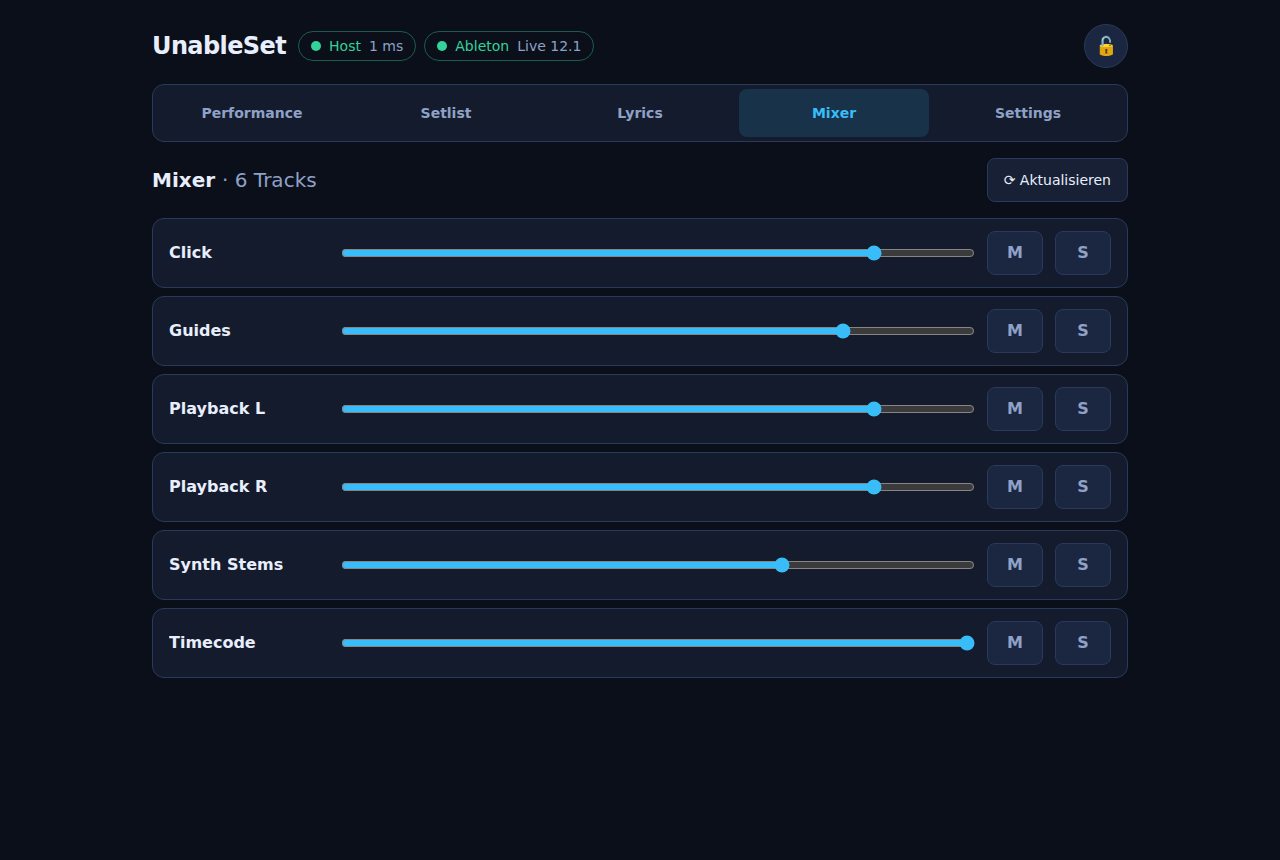
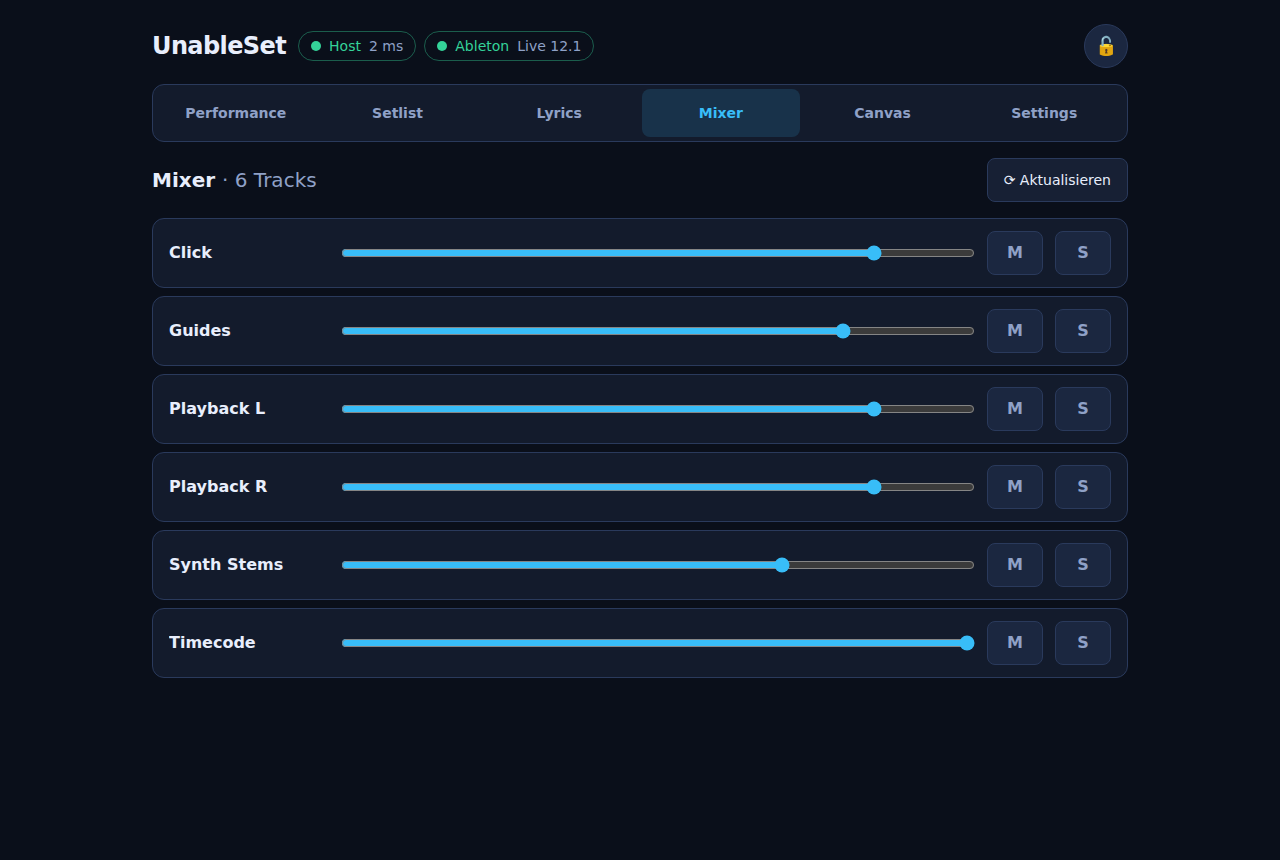
test(e2e): Lyrics-Sync- und Canvas-Flow + Canvas-Screenshot
- E2E: getimte Lyrics aus MIDI-Clips (SYNC), Canvas-Command-Button
- Screenshot-Script erzeugt zusaetzlich canvas.png

diff --git a/e2e/stage-flows.spec.ts b/e2e/stage-flows.spec.ts
@@ -91,6 +91,29 @@ test('Mixer: Tracks sichtbar, Mute togglet', async ({ page }) => {
   await expect(muteButton).toHaveClass(/stage-danger/, { timeout: 5000 });
 });
 
+test('Lyrics-Sync: getimte Zeilen aus MIDI-Clips im Teleprompter', async ({ page }) => {
+  await page.goto('/');
+  await page.getByTestId('btn-stop').click();
+  await page.getByTestId('tab-setlist').click();
+  await page.getByTestId('entry-queue-0').click(); // Neonlicht (hat Lyrics-Track im Simulator)
+
+  await page.getByTestId('tab-lyrics').click();
+  await expect(page.getByTestId('lyrics-view')).toContainText('SYNC');
+  await expect(page.getByTestId('lyrics-view')).toContainText('Neonlicht über der leeren Stadt');
+});
+
+test('Canvas: Command-Button feuert Transport', async ({ page }) => {
+  await page.goto('/');
+  await page.getByTestId('btn-stop').click();
+  await page.getByTestId('tab-canvas').click();
+  await expect(page.getByTestId('canvas-view')).toBeVisible();
+  // Default-Layout enthält einen Play-Button
+  await page.getByRole('button', { name: '▶ Play' }).first().click();
+  await page.getByTestId('tab-performance').click();
+  await expect(page.getByText('PLAYING')).toBeVisible();
+  await page.getByTestId('btn-stop').click();
+});
+
 test('Sperre: Steuerung deaktiviert, Ansicht bleibt', async ({ page }) => {
   await page.goto('/');
   await page.getByTestId('lock-toggle').click();
